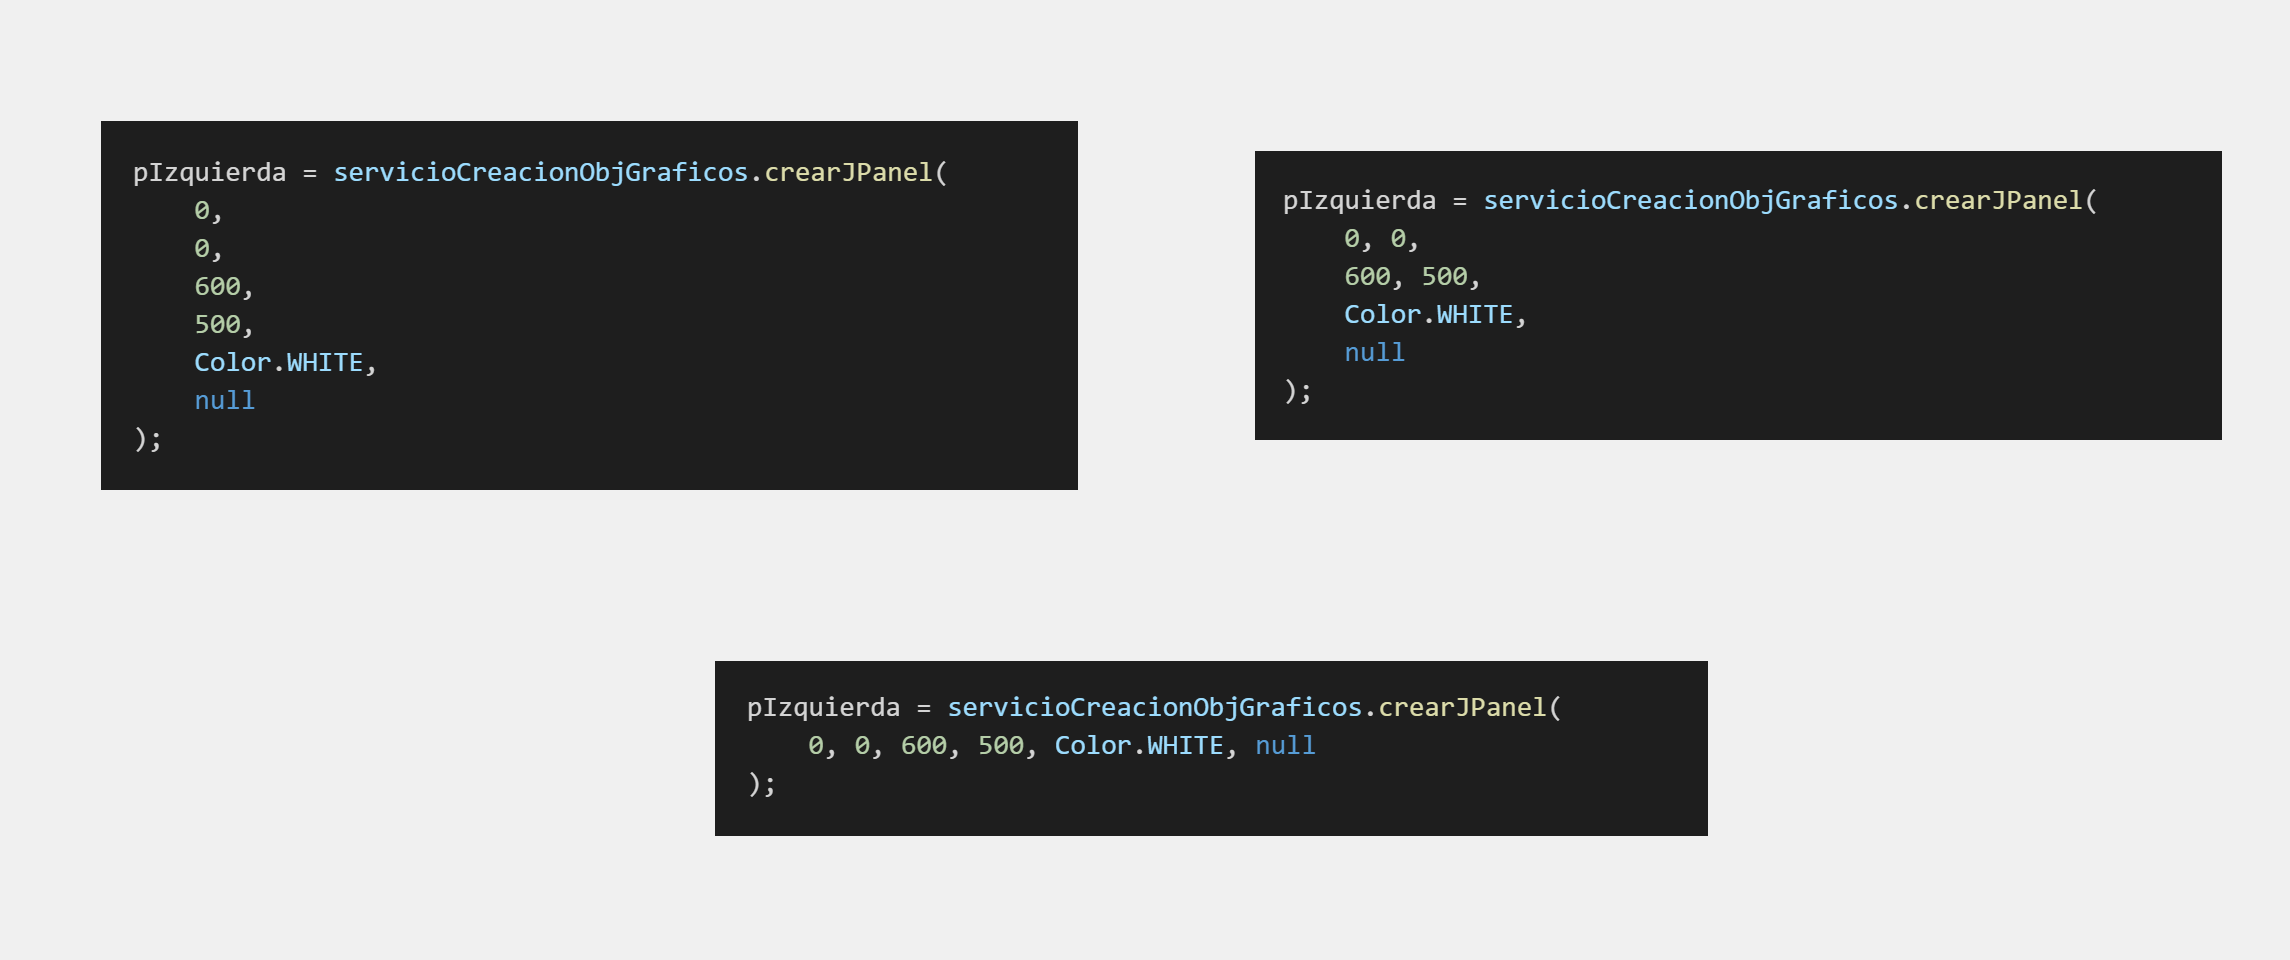
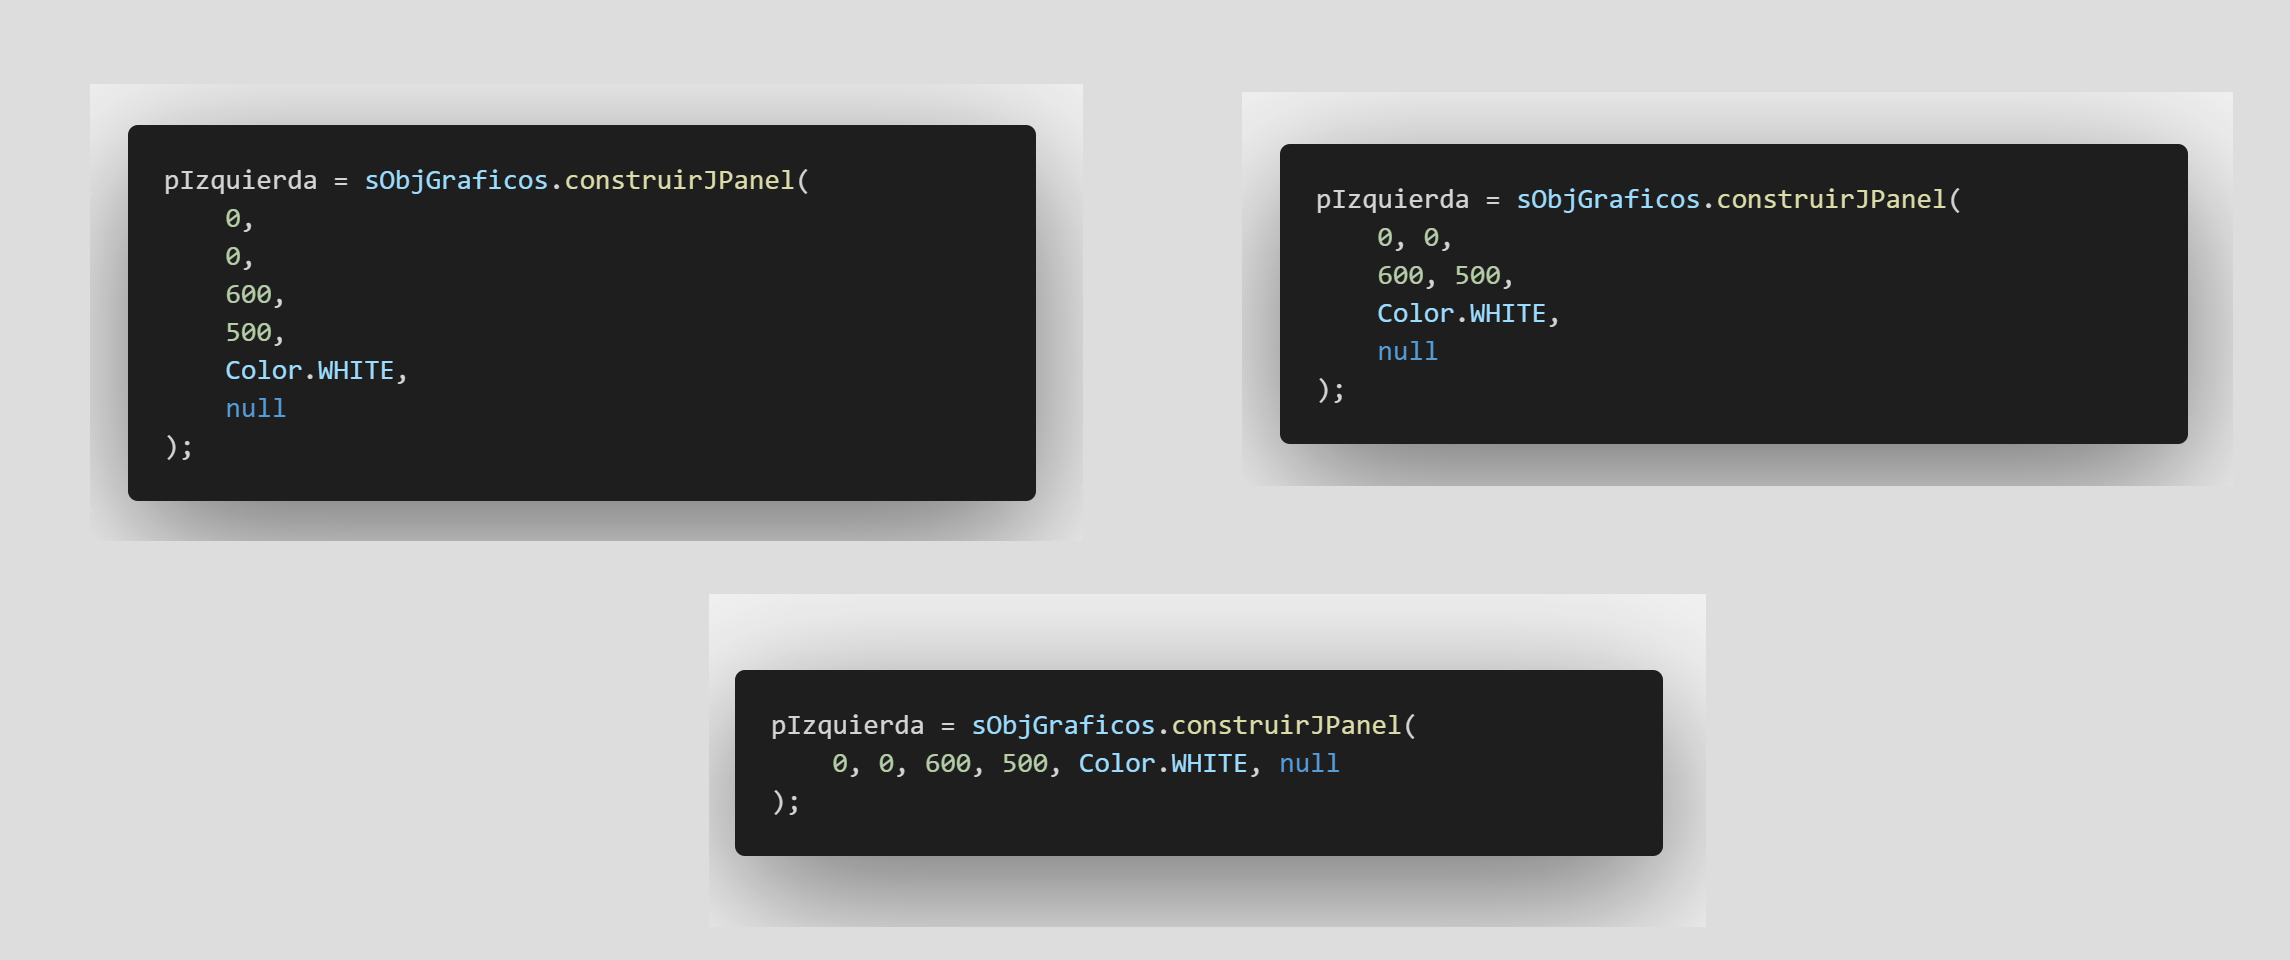
arreglos en el ReadMe

Changed region(s): [[0.031, 0.0938, 0.4961, 0.5625], [0.31, 0.6562, 0.7441, 0.9688], [0.5271, 0.125, 0.9921, 0.5312]]

diff --git a/Clase4/src/app/client/login/LoginTemplate.java b/Clase4/src/app/client/login/LoginTemplate.java
@@ -40,11 +40,11 @@ public class LoginTemplate extends JFrame {
     private ImageIcon iFondo, iSvg, iLogo, iUsuario, iClave, iPunto, iFacebook, iTwitter, iYoutube, iCerrar, iDimAux;
 
     // Declaración objetos
-    private ObjGraficosService servicioObjGraficos;
+    private ObjGraficosService sObjGraficos;
 
     public LoginTemplate() {
         
-        servicioObjGraficos = ObjGraficosService.getService();
+        sObjGraficos = ObjGraficosService.getService();
 
         this.crearObjetosDecoradores();
         this.crearJPanels();
@@ -88,12 +88,12 @@ public class LoginTemplate extends JFrame {
 
     public void crearJPanels(){
 
-        pIzquierda = servicioCreacionObjGraficos.crearJPanel(
+        pIzquierda = sObjGraficos.construirJPanel(
             0, 0, 600, 500, Color.WHITE, null
         );
         this.add(pIzquierda);
 
-        pDerecha = servicioCreacionObjGraficos.crearJPanel(
+        pDerecha = sObjGraficos.construirJPanel(
             600, 0, 400, 500, Color.WHITE, null
         );
         this.add(pDerecha);
@@ -115,7 +115,7 @@ public class LoginTemplate extends JFrame {
     public void crearJButtons(){
 
 
-        bEntrar = servicioCreacionObjGraficos.crearJButton(
+        bEntrar = sObjGraficos.construirJButton(
             "Entrar", (pDerecha.getWidth() - 230) / 2, 330, 
             250, 45, cMano, null, null, colorAzul, 
             Color.WHITE, null, "c", true

diff --git a/Clase4/src/app/services/ObjGraficosService.java b/Clase4/src/app/services/ObjGraficosService.java
@@ -17,7 +17,7 @@ public class ObjGraficosService {
 
     private ObjGraficosService(){}
 
-    public JPanel crearJPanel(int x, int y, int ancho, int alto, Color colorFondo, Border borde){
+    public JPanel construirJPanel(int x, int y, int ancho, int alto, Color colorFondo, Border borde){
         panel = new JPanel(); 
         panel.setSize(ancho, alto);
         panel.setLocation(x, y);
@@ -27,7 +27,7 @@ public class ObjGraficosService {
         return panel;
     }
 
-    public JButton crearJButton(
+    public JButton construirJButton(
         String texto, int x, int y, int ancho, int alto, Cursor cursor, 
         ImageIcon imagen, Font fuente, Color colorFondo, Color colorFuente, 
         Border borde, String direccion, boolean esSolido){

diff --git a/README.md b/README.md
@@ -10,8 +10,8 @@ Curso propuesto por el grupo de trabajo Semana de Ingenio y Diseño (**SID**) de
 
 ## Objetivos
 
-- Reconocer la forma de Añadir modularidad a nuestro código en las clases **Template** separando la agregación de objetos gráficos.
-- Optimizar el código con el uso de un servicio que encapsula el funcionamiento para la creación de objetos gráficos.
+- Reconocer la forma de Añadir modularidad a nuestro código en las clases **Template** separando la creación de objetos gráficos.
+- Optimizar el código con el uso de un servicio que encapsula el funcionamiento de la creación de objetos gráficos.
 - Optimizar los recursos de nuestra aplicación con el uso de un servicio que administre los objetos que pueden ser utilizados en diferentes clases.
 
 # Antes de comenzar
@@ -41,7 +41,7 @@ También creamos nuestra clase **LoginTemplate** y el resultado de nuestra anter
 
 <div align="center">
   <img  src="./resources/interfaz2.png">
-  <p>Login de usuario resultado final.</p>
+  <p>Login de usuario resultado anterior clase.</p>
 </div>
 
 # Modularización de código
@@ -179,7 +179,7 @@ Entonces es necesario llamar a todos estos métodos dentro del constructor.
 
 ## Organización en el eje Z y de métodos de creación
 
-Tenemos que tener en cuenta la organización de los objetos con respecto al eje z como se discutió en la clase anterior. Eso quiere decir que hay que tener cuidado en el orden en que vamos a llamar los métodos. Por ejemplo:
+Tenemos que tener en cuenta la organización de los objetos con respecto al eje z como se discutió en la clase anterior. Eso quiere decir que hay que tener cuidado en el **orden en que vamos a llamar los métodos**. Por ejemplo:
 * Si llamamos el método **crearJTextFields()** antes del método **crearJPanels()** ocurrirá un error por que no es posible añadir un objeto gráfico a un panel que aun no se ha creado.
 
 <div align="center">
@@ -212,7 +212,7 @@ Entonces es necesario que el programador tenga en cuenta la organización en la 
 
 Ahora nuestro código esta más organizado, cuando queramos cambiar la configuración de algún botón ya no tardaremos en encontrarlo dentro del constructor sino que ya podremos ir a nuestro método encargado de la creación de botones y cambiar lo que consideremos necesario. 
 
-Ademas para hacer aun mas fácil el enfoque a una parte de nuestro código, el editor de texto nos da la posibilidad de minimizar el código por métodos y así concentrarnos en una sola parte de este.
+Ademas para poder concentrarnos aun mejor en una parte de nuestro código, el editor de texto nos da la posibilidad de minimizar el código por métodos y así concentrarnos en una sola parte de este.
 
 <div align="center">
   <img  src="./resources/codigo6.png">
@@ -224,79 +224,85 @@ Ademas para hacer aun mas fácil el enfoque a una parte de nuestro código, el e
 
 Ya aprendimos la forma de como crear nuestros objetos gráficos para mostrarlos en pantalla y como crear objetos decoradores para incorporarlos en ellos. Sin embargo son muchas las configuraciones que hay que aprender y es mucho el código que se extiende en nuestras clases para la creación de estos objetos gráficos. Si nuestra interfaz Gráfica de usuario tiene 20 botones por ejemplo debemos realizar el proceso de creación 20 veces y no solo gasta tiempo sino que requiere la memorización de muchas configuraciones y nuestro codigo se hará más y más largo.
 
-Una alternativa a esto es la creación de una clase que se encargue de proporcionarnos un servicio, este servicio sera el de la creación de nuestros objetos gráficos de forma genérica de tal forma que para crear uno de nuestros objetos solo tengamos que llamar al servicio y este nos retorne el objeto. Vamos a ver de que se trata.
+Una alternativa a esto es la creación de una clase que se encargue de proporcionarnos un servicio, este servicio sera el de la creación de los objetos gráficos de forma genérica de tal forma que para crear uno de estos objetos solo tengamos que llamar al servicio y este nos lo retorne. Vamos a explicar de que se trata.
 
-**Nota**: Antes de continuar vamos a ver que se tratara con un tema relacionado a los servicios, esta clase no tiene como finalidad explicar que son los servicios asi que solo se dará una breve explicación de ellos a medida que se avanza, sin embargo en clases posteriores nos enfocaremos en su concepto y finalidad.
+**Nota**: *Antes de continuar vamos a ver que se tratara con un tema relacionado a los servicios, esta clase no tiene como finalidad explicar que son los servicios asi que solo se dará una breve explicación de ellos a medida que se avanza, sin embargo en clases posteriores nos enfocaremos en su concepto y finalidad.*
 
-Dentro de nuestro proyecto en el paquete raíz **app** ahora crearemos un nuevo paquete al cual llamaremos **services** y dentro crearemos una clase llamada **CreacionObjGraficosService**.
+Dentro de nuestro proyecto en el paquete raíz **app** ahora crearemos un nuevo paquete al cual llamaremos **services** y dentro crearemos una clase llamada **ObjGraficosService**.
 
 <div align="center">
   <img  src="./resources/paquetes3.png">
   <p>Creación de paquete services y servicio para la creación de objetos gráficos.</p>
 </div>
 
-Nuestra clase **CreacionObjGraficosService** se encargará de la creación de los objetos gráficos a traves de métodos que podremos usar desde cualquier clase **Template** que tengamos en nuestro proyecto. Para garantizar lo anterior dicho debemos crear un mecanismo para que cualquier clase desde cualquier parte pueda llamar al objeto y pueda usar sus métodos pero a su vez este objeto solo se cree una vez para todas las clases.
+Cabe resaltar que los servicios que creemos en nuestro proyecto tendrán el nombre de la clase (arbitrario) seguido de la palabra **service**.
+
+Nuestra clase **ObjGraficosService** se encargará de la creación de los objetos gráficos a traves de métodos que podremos usar desde cualquier clase **Template** que tengamos en nuestro proyecto. Para garantizar lo anterior dicho debemos crear un mecanismo para que cualquier clase desde cualquier parte pueda llamar al objeto y pueda usar sus métodos pero a su vez **este objeto solo se cree una vez para todas las clases.**
 
 ## Singleton 
 
 Es importante que este servicio se cree una vez en memoria y solo una vez por que va a ser un objeto usado en todas las clases **template** que creemos y si nuestro proyecto tiene 30 clases y si cada clase crea un objeto de este servicio estamos creando 29 objetos de más innecesarios que consumirán recursos. 
 
-Lo primero que haremos es crear su constructor pero con un tipo de acceso privado
+Lo primero que haremos es crear su constructor pero su **tipo de acceso será privado**:
 
 ```javascript
-private CreacionObjGraficosService(){
+private ObjGraficosService(){
         
 }
 ```
-Esto garantiza que no se pueda ejemplificar el objeto desde ninguna otra clase (es decir no se puede hacer  **.. = new CreacionObjGraficosService()**).
+Esto garantiza que no se pueda ejemplificar el objeto desde ninguna otra clase (es decir no se puede hacer  **.. = new ObjGraficosService()**).
 
-Dentro de la misma clase **CreacionObjGraficosService** vamos a crear un objeto **static** de tipo de la misma clase:
+Dentro de la misma clase **ObjGraficosService** vamos a crear un objeto **static** de tipo de la misma clase:
 ```javascript
-static private CreacionObjGraficosService servicio;
+static private ObjGraficosService servicio;
 ```
 
 Ahora realizaremos un método **static** para crear el objeto de este servicio y retornarlo a quien lo necesite.
 
 ```javascript
-public static CreacionObjGraficosService devolverServicio(){
+public static ObjGraficosService getService(){
     if(servicio == null){
-        servicio = new CreacionObjGraficosService();
+        servicio = new ObjGraficosService();
     }
     return servicio;
 }
 ```
 Se pueden notar varias cosas del método anterior:
-* La palabra clave **static** asegura que el método dentro de este servicio pueda ser llamado desde cualquier otra clase sin necesidad de ejemplificar el objeto anteriormente. En el atributo se pone el **static** por que las variables que se trabajen dentro de un método **static** deben serlo también.
-* El **if** asegura la ejemplificación única del objeto del servicio, si este es nulo lo instancia, cosa que ocurrirá la primera vez que se llame al método. Pero la segunda vez que se llame como este objeto ya fue ejemplificado ya no entrara al if y lo retornara.
-* Este método que acabamos de realizar es conocido como **Patron Singleton**
+* La palabra clave **static** asegura que el método dentro de este servicio pueda ser llamado desde cualquier otra clase sin necesidad de ejemplificar el objeto anteriormente. 
+* En el atributo de la clase se pone el **static** también por que las variables que se trabajen dentro de un método **static** deben serlo también.
+* El método retorna un objeto de la propia clase.
+* El **if** asegura la ejemplificación única del objeto del servicio, si este es nulo lo ejemplifica, cosa que ocurrirá la primera vez que se llame al método. Pero la segunda vez que se llame, como este objeto ya fue ejemplificado ya no entrara al if y lo retornara simplemente.
+* Este método que acabamos de realizar es conocido como **Patron Singleton**.
 
 Ahora en nuestra Clase **LoginTemplate** podemos obtener su objeto llamando a este método de la siguiente manera:
 * Primero se importa el servicio
 ```javascript
-import app.services.CreacionObjGraficosService;
+import app.services.ObjGraficosService;
 ```
 * Se declara el objeto:
 ```javascript
-private CreacionObjGraficosService servicioCreacionObjGraficos;
+private ObjGraficosService sObjGraficos;
 ```
-* Se obtiene su ejemplificacíon dentro del constructor (Esta sera la primera linea de código en el)
+La declaración de los objetos de los servicios inician con una s en minúscula seguido de la variable (objeto) arbitraria.
+
+* Se obtiene su ejemplificacíon dentro del constructor (Esta sera la primera linea de código en el constructor).
 ```javascript
-servicioCreacionObjGraficos = CreacionObjGraficosService.devolverServicio();
+sObjGraficos = ObjGraficosService.getService();
 ```
 
 Como esta es la primera clase que llama a este método el objeto del servicio se ejemplificará, pero mas adelante cuando otra clase **template** realice el mismo proceso obtendrá el objeto que ya se había ejemplificado previamente.
 
-Ahora veremos un acercamiento de como serán los métodos de creación:
+Ahora veremos un acercamiento de como serán los métodos de que encapsulan la creación genérica de los objetos gráficos dentro del servicio:
 
 ## JPanel 
 
-Dentro de nuestro servicio podemos empezar con la creación de paneles para esto declaramos un objeto gráfico tipo JPanel y lo configuramos dentro de un método al cual llamaremos **CrearJPanel**, este recibirá por parámetros las cosas necesarias para su correcta creación.
+Dentro de nuestro servicio podemos empezar con la creación de paneles para esto declaramos un objeto gráfico tipo JPanel y lo configuramos dentro de un método al cual llamaremos **construirJPanel**, este recibirá por parámetros las cosas necesarias para su correcta creación.
 
 ```javascript
 private JPanel panel;
 ```
 ```javascript
-public JPanel crearJPanel(int x, int y, int ancho, int alto, Color colorFondo, Border borde){
+public JPanel construirJPanel(int x, int y, int ancho, int alto, Color colorFondo, Border borde){
     panel = new JPanel(); 
     panel.setSize(ancho, alto);
     panel.setLocation(x, y);
@@ -314,12 +320,12 @@ Podemos observar que este método retorna un objeto tipo JPanel y recibe por par
 * **Color de Fondo**
 * **Borde**
 
-Y adentro se encarga de la **ejemplificación y configuración del objeto gráfico para después retornarlo** por lo que en realidad solo realiza 2 de las 4 etapas de la creación de un objeto gráfico sin embargo un nombre como **ejemplificarYConfigurarJPanel()** queda demasiado largo y nosotros ya entendemos que esta realizando realmente.
+Adentro se encarga de la **ejemplificación y configuración del objeto gráfico para después retornarlo** por lo que realiza 2 de las 4 etapas de la creación de un objeto gráfico, estas dos etapas las podemos generalizar en un termino que es la construcción del objeto, esta es la razón de su nombre.
 
 Ahora desde nuestra clase **LoginTemplate** podemos llamar a este método buscando un panel dentro del método encargado de la creación de paneles y poner:
 
 ```javascript
-pIzquierda = servicioCreacionObjGraficos.crearJPanel(0, 0, 600, 500, Color.WHITE, null);
+pIzquierda = sObjGraficos.construirJPanel(0, 0, 600, 500, Color.WHITE, null);
 this.add(pIzquierda);
 ```
 
@@ -356,7 +362,7 @@ Noten varias cosas importantes:
 Vamos a ver como se realizaría el método para la creación genérica de un botón.
 
 ```javascript
-public JButton crearJButton(
+public JButton construirJButton(
     String texto, int x, int y, int ancho, int alto, Cursor cursor, 
     ImageIcon imagen, Font fuente, Color colorFondo, Color colorFuente, 
     Border borde, String direccion, boolean esSolido){
